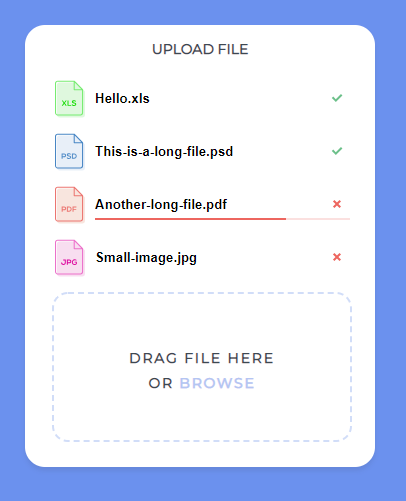
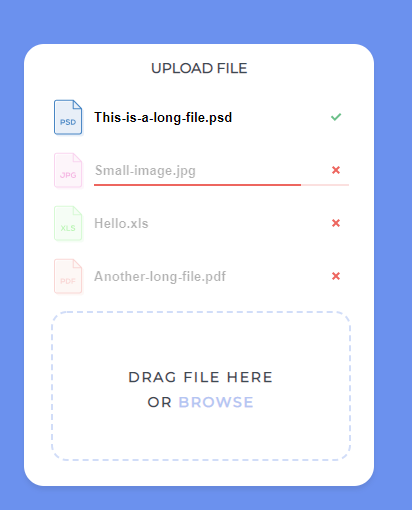
feat: add the transparency when the files are uploaded;

diff --git a/dist/js/main.js b/dist/js/main.js
@@ -1,1 +1,1 @@
-window.addEventListener("load",event=>{if(window.File&&window.FileReader&&window.FileList&&window.Blob){document.getElementById("file_input_id").addEventListener("change",handleFileSelect,!1);var dropZone=document.getElementById("dragAndDrop");dropZone.addEventListener("dragover",handleDragOver,!1),dropZone.addEventListener("drop",handleFileSelect,!1)}else alert("The File APIs are not fully supported in this browser.")}),handleFileSelect=(evt=>{var files;if(evt.stopPropagation(),evt.preventDefault(),evt.dataTransfer)files=evt.dataTransfer.files;else{if(!evt.target)return;files=evt.target.files}for(var output=[],allowedTypes=["ai","doc","jpg","pdf","png","psd","xls"],i=0;f=files[i];i++){var ext=f.name.split(".").pop();if(-1!==allowedTypes.indexOf(ext)){var div=document.createElement("div");div.className="input-container-"+i;var img=document.createElement("img");img.className="img-"+ext+" svg",img.src="/img/icon-file-"+ext+".svg";var status=document.createElement("img");status.id="status-"+i,status.className="status svg inprogress",status.src="/img/icon-close.svg";var li=document.createElement("li"),fileName=document.createElement("input");fileName.type="text",fileName.setAttribute("value",escape(f.name)),fileName.className="fileName",li.appendChild(fileName),div.appendChild(img),div.appendChild(li),div.appendChild(status),output.push(div.outerHTML)}else alert("These file extensions are not allowed in our File Uploader!")}document.getElementById("list").innerHTML="<ul>"+output.join("")+"</ul>",replaceSVG();var f,asyncArray=[];for(i=0;f=files[i];i++){asyncArray.push(function(i,f){return function(callback){var reader=new FileReader,li=document.querySelector(".input-container-"+i+" li"),status=document.getElementById("status-"+i),progressBar=document.createElement("div");progressBar.id="progress-bar-"+i,progressBar.className="progress_bar";var percent=document.createElement("div");percent.className="percent",progressBar.appendChild(percent),percent.style.width="0%",li.appendChild(progressBar),reader.onloadstart=function(e){progressBar.className="progress_bar loading"},reader.onload=function(e){percent.style.width="100%",percent.style.opacity="0",progressBar.className="progress_bar";var div=(status=document.getElementById(status.id)).parentElement;status.remove();var img=document.createElement("img");img.id=status.id,img.src="/img/icon-check.svg",img.className="status svg completed",div.appendChild(img),replaceSVG(),callback()},updateProgress=(evt=>{if(evt.lengthComputable){var percentLoaded=Math.round(evt.loaded/evt.total*100);percentLoaded<100&&(percent.style.width=percentLoaded+"%")}}),errorHandler=(evt=>{switch(evt.target.error.code){case evt.target.error.NOT_FOUND_ERR:alert("File Not Found!");break;case evt.target.error.NOT_READABLE_ERR:alert("File is not readable");break;case evt.target.error.ABORT_ERR:break;default:alert("An error occurred reading this file.")}callback()}),reader.onerror=errorHandler,reader.onprogress=updateProgress,reader.readAsBinaryString(f)}}(i,f))}async.waterfall(asyncArray)}),replaceSVG=(()=>{jQuery("img.svg").each(function(){var $img=jQuery(this),imgID=$img.attr("id"),imgClass=$img.attr("class"),imgURL=$img.attr("src");jQuery.get(imgURL,function(data){var $svg=jQuery(data).find("svg");void 0!==imgID&&($svg=$svg.attr("id",imgID)),void 0!==imgClass&&($svg=$svg.attr("class",imgClass+" replaced-svg")),$svg=$svg.removeAttr("xmlns:a"),$img.replaceWith($svg)},"xml")})}),handleDragOver=(evt=>{evt.stopPropagation(),evt.preventDefault(),evt.dataTransfer.dropEffect="copy"});
+window.addEventListener("load",event=>{if(window.File&&window.FileReader&&window.FileList&&window.Blob){document.getElementById("file_input_id").addEventListener("change",handleFileSelect,!1);var dropZone=document.getElementById("dragAndDrop");dropZone.addEventListener("dragover",handleDragOver,!1),dropZone.addEventListener("drop",handleFileSelect,!1)}else alert("The File APIs are not fully supported in this browser.")}),handleFileSelect=(evt=>{var files;if(evt.stopPropagation(),evt.preventDefault(),evt.dataTransfer)files=evt.dataTransfer.files;else{if(!evt.target)return;files=evt.target.files}for(var output=[],allowedTypes=["ai","doc","jpg","pdf","png","psd","xls"],i=0;f=files[i];i++){var ext=f.name.split(".").pop();if(-1!==allowedTypes.indexOf(ext)){var div=document.createElement("div");div.className="input-container-"+i;var img=document.createElement("img");img.className="img-"+ext+" svg",img.src="/img/icon-file-"+ext+".svg";var status=document.createElement("img");status.id="status-"+i,status.className="status svg inprogress",status.src="/img/icon-close.svg";var li=document.createElement("li"),fileName=document.createElement("input");fileName.type="text",fileName.setAttribute("value",escape(f.name)),fileName.className="fileName-"+i,li.appendChild(fileName),div.appendChild(img),div.appendChild(li),div.appendChild(status),output.push(div.outerHTML)}else alert("These file extensions are not allowed in our File Uploader!")}document.getElementById("list").innerHTML="<ul>"+output.join("")+"</ul>",replaceSVG();var f,asyncArray=[];for(i=0;f=files[i];i++){asyncArray.push(function(i,f){return function(callback){var reader=new FileReader,li=document.querySelector(".input-container-"+i+" li"),status=document.getElementById("status-"+i),progressBar=document.createElement("div");progressBar.id="progress-bar-"+i,progressBar.className="progress_bar";var percent=document.createElement("div");percent.className="percent",progressBar.appendChild(percent),percent.style.width="0%",li.appendChild(progressBar),reader.onloadstart=function(e){progressBar.className="progress_bar loading"},reader.onload=function(e){percent.style.width="100%",percent.style.opacity="0",progressBar.className="progress_bar";var div=(status=document.getElementById(status.id)).parentElement;div.querySelector('[class^="fileName-"]').style.opacity=1,div.querySelector('[class^="img-"]').style.opacity=1,status.remove();var img=document.createElement("img");img.id=status.id,img.src="/img/icon-check.svg",img.className="status svg completed",div.appendChild(img),replaceSVG(),callback()},updateProgress=(evt=>{if(evt.lengthComputable){var percentLoaded=Math.round(evt.loaded/evt.total*100);percentLoaded<100&&(percent.style.width=percentLoaded+"%")}}),errorHandler=(evt=>{switch(evt.target.error.code){case evt.target.error.NOT_FOUND_ERR:alert("File Not Found!");break;case evt.target.error.NOT_READABLE_ERR:alert("File is not readable");break;case evt.target.error.ABORT_ERR:break;default:alert("An error occurred reading this file.")}callback()}),reader.onerror=errorHandler,reader.onprogress=updateProgress,reader.readAsBinaryString(f)}}(i,f))}async.waterfall(asyncArray)}),replaceSVG=(()=>{jQuery("img.svg").each(function(){var $img=jQuery(this),imgID=$img.attr("id"),imgClass=$img.attr("class"),imgURL=$img.attr("src");jQuery.get(imgURL,function(data){var $svg=jQuery(data).find("svg");void 0!==imgID&&($svg=$svg.attr("id",imgID)),void 0!==imgClass&&($svg=$svg.attr("class",imgClass+" replaced-svg")),$svg=$svg.removeAttr("xmlns:a"),$img.replaceWith($svg)},"xml")})}),handleDragOver=(evt=>{evt.stopPropagation(),evt.preventDefault(),evt.dataTransfer.dropEffect="copy"});

diff --git a/dist/index.html b/dist/index.html
@@ -1,1 +1,1 @@
-<!DOCTYPE html><html lang="en"><head><meta charset="UTF-8"><meta name="theme-color" content="#6b91ee"><meta name="viewport" content="width=device-width,initial-scale=1"><meta http-equiv="X-UA-Compatible" content="ie=edge"><style>@import url("https://fonts.googleapis.com/css?family=Montserrat");body,html{height:100%}body{font-family:Montserrat;margin:0;background-color:#6b91ee}main{position:relative;width:100%;height:100%}main div#form>h2{font-size:14px;color:#3d4852;font-weight:700;text-transform:uppercase;line-height:1.857;text-align:center;z-index:4;position:relative;padding:12px}main div#form{width:350px;height:100%;position:relative;background-color:#fff;border-radius:20px;box-shadow:0 4px 6px 0 rgba(51,46,58,.1);z-index:3}main section#section{background-color:#6b91ee;position:absolute;left:50%;top:50%;width:420px;min-height:480px;margin-left:-210px;margin-top:-240px;z-index:2}div#dragAndDrop,div#list{position:relative}div#dragAndDrop{border:2px dashed rgba(104,142,232,.302);border-radius:16px;margin-top:30px;width:296px;height:146px;left:27px;bottom:25px;z-index:7}div#dragAndDrop h2{font-size:14px;color:#3d4852;text-transform:uppercase;line-height:1.857;letter-spacing:1.8px;text-align:center;padding:75px;top:-35px;position:absolute;z-index:8}div#dragAndDrop h2 label{color:#b4c5f2;cursor:pointer}div#dragAndDrop h2 label:hover{text-decoration:underline}div#dragAndDrop h2 #file_input_id{display:none}.svg{height:38px;width:30px;position:relative;top:-10px;left:-10px}[class^=input-container-]{display:flex;width:100%;margin-bottom:15px}ul{list-style:none}ul li{font-size:13px;width:82%}.img-doc,.img-psd{fill:#4886c4}.img-doc .st0,.img-psd .st0{fill:#e8eff8}.img-doc .st1,.img-psd .st1{fill:#518cc7}.img-pdf{fill:#ec7570}.img-pdf .st0{fill:#f8e5de}.img-pdf .st1{fill:#ee827e}.img-ai,.img-png{fill:#ebc867}.img-ai .st0,.img-png .st0{fill:#faf3dc}.img-ai .st1,.img-png .st1{fill:#efd386}.img-xls{fill:#76ec70}.img-xls .st0{fill:#dff8de}.img-xls .st1{fill:#17dd05}.img-jpg{fill:#ec70ca}.img-jpg .st0{fill:#f8def0}.img-jpg .st1{fill:#dd059d}.status{width:16px;height:16px;top:0;left:-20px}.inprogress .st0{fill:#ed665f}.completed .st0{fill:#6cc08a}.progress_bar{margin:5px 0;background-color:#6cc08a;font-size:14px;clear:both;transition:opacity 1s linear;height:2px;width:255px;opacity:0}.progress_bar.loading{background-color:#fbe0df;opacity:1}.progress_bar .percent{background-color:#ed665f;height:2px;width:0;opacity:1}.fileName{font-weight:700;border:none;width:90%}</style><title>Upload File</title></head><body><main><section id="section"><div id="form"><h2>Upload File</h2><div id="list"></div><div id="dragAndDrop"><h2>Drag file here or <label for="file_input_id">Browse</label> <input type="file" id="file_input_id" accept=".ai, .doc, .jpg, .pdf, .png, .psd, .xls" multiple="multiple"></h2></div></div></section></main><script async defer="defer" charset="utf-8" src="js/main.js"></script><script async defer="defer" charset="utf-8" src="js/jquery-3.3.1.min.js"></script><script async defer="defer" charset="utf-8" src="js/async.js"></script></body></html>
+<!DOCTYPE html><html lang="en"><head><meta charset="UTF-8"><meta name="theme-color" content="#6b91ee"><meta name="viewport" content="width=device-width,initial-scale=1"><meta http-equiv="X-UA-Compatible" content="ie=edge"><style>@import url("https://fonts.googleapis.com/css?family=Montserrat");body,html{height:100%}body{font-family:Montserrat;margin:0;background-color:#6b91ee}main{position:relative;width:100%;height:100%}main div#form>h2{font-size:14px;color:#3d4852;font-weight:700;text-transform:uppercase;line-height:1.857;text-align:center;z-index:4;position:relative;padding:12px}main div#form{width:350px;height:100%;position:relative;background-color:#fff;border-radius:20px;box-shadow:0 4px 6px 0 rgba(51,46,58,.1);z-index:3}main section#section{background-color:#6b91ee;position:absolute;left:50%;top:50%;width:420px;min-height:480px;margin-left:-210px;margin-top:-240px;z-index:2}div#dragAndDrop,div#list{position:relative}div#dragAndDrop{border:2px dashed rgba(104,142,232,.302);border-radius:16px;margin-top:30px;width:296px;height:146px;left:27px;bottom:25px;z-index:7}div#dragAndDrop h2{font-size:14px;color:#3d4852;text-transform:uppercase;line-height:1.857;letter-spacing:1.8px;text-align:center;padding:75px;top:-35px;position:absolute;z-index:8}div#dragAndDrop h2 label{color:#b4c5f2;cursor:pointer}div#dragAndDrop h2 label:hover{text-decoration:underline}div#dragAndDrop h2 #file_input_id{display:none}.svg{height:38px;width:30px;position:relative;top:-10px;left:-10px}[class^=fileName-],[class^=img-]{opacity:.3}[class^=input-container-]{display:flex;width:100%;margin-bottom:15px}ul{list-style:none}ul li{font-size:13px;width:82%}.img-doc,.img-psd{fill:#4886c4}.img-doc .st0,.img-psd .st0{fill:#e8eff8}.img-doc .st1,.img-psd .st1{fill:#518cc7}.img-pdf{fill:#ec7570}.img-pdf .st0{fill:#f8e5de}.img-pdf .st1{fill:#ee827e}.img-ai,.img-png{fill:#ebc867}.img-ai .st0,.img-png .st0{fill:#faf3dc}.img-ai .st1,.img-png .st1{fill:#efd386}.img-xls{fill:#76ec70}.img-xls .st0{fill:#dff8de}.img-xls .st1{fill:#17dd05}.img-jpg{fill:#ec70ca}.img-jpg .st0{fill:#f8def0}.img-jpg .st1{fill:#dd059d}.status{width:16px;height:16px;top:0;left:-20px}.inprogress .st0{fill:#ed665f}.completed .st0{fill:#6cc08a}.progress_bar{margin:5px 0;background-color:#6cc08a;font-size:14px;clear:both;transition:opacity 1s linear;height:2px;width:255px;opacity:0}.progress_bar.loading{background-color:#fbe0df;opacity:1}.progress_bar .percent{background-color:#ed665f;height:2px;width:0;opacity:1}[class^=fileName-]{font-weight:700;border:none;width:90%}</style><title>Upload File</title></head><body><main><section id="section"><div id="form"><h2>Upload File</h2><div id="list"></div><div id="dragAndDrop"><h2>Drag file here or <label for="file_input_id">Browse</label> <input type="file" id="file_input_id" accept=".ai, .doc, .jpg, .pdf, .png, .psd, .xls" multiple="multiple"></h2></div></div></section></main><script async defer="defer" charset="utf-8" src="js/main.js"></script><script async defer="defer" charset="utf-8" src="js/jquery-3.3.1.min.js"></script><script async defer="defer" charset="utf-8" src="js/async.js"></script></body></html>

diff --git a/dist/css/styles.css b/dist/css/styles.css
@@ -1,1 +1,1 @@
-@import url("https://fonts.googleapis.com/css?family=Montserrat");body,html{height:100%}body{font-family:Montserrat;margin:0;background-color:#6b91ee}main{position:relative;width:100%;height:100%}main div#form>h2{font-size:14px;color:#3d4852;font-weight:700;text-transform:uppercase;line-height:1.857;text-align:center;z-index:4;position:relative;padding:12px}main div#form{width:350px;height:100%;position:relative;background-color:#fff;border-radius:20px;box-shadow:0 4px 6px 0 rgba(51,46,58,.1);z-index:3}main section#section{background-color:#6b91ee;position:absolute;left:50%;top:50%;width:420px;min-height:480px;margin-left:-210px;margin-top:-240px;z-index:2}div#dragAndDrop,div#list{position:relative}div#dragAndDrop{border:2px dashed rgba(104,142,232,.302);border-radius:16px;margin-top:30px;width:296px;height:146px;left:27px;bottom:25px;z-index:7}div#dragAndDrop h2{font-size:14px;color:#3d4852;text-transform:uppercase;line-height:1.857;letter-spacing:1.8px;text-align:center;padding:75px;top:-35px;position:absolute;z-index:8}div#dragAndDrop h2 label{color:#b4c5f2;cursor:pointer}div#dragAndDrop h2 label:hover{text-decoration:underline}div#dragAndDrop h2 #file_input_id{display:none}.svg{height:38px;width:30px;position:relative;top:-10px;left:-10px}[class^=input-container-]{display:flex;width:100%;margin-bottom:15px}ul{list-style:none}ul li{font-size:13px;width:82%}.img-doc,.img-psd{fill:#4886c4}.img-doc .st0,.img-psd .st0{fill:#e8eff8}.img-doc .st1,.img-psd .st1{fill:#518cc7}.img-pdf{fill:#ec7570}.img-pdf .st0{fill:#f8e5de}.img-pdf .st1{fill:#ee827e}.img-ai,.img-png{fill:#ebc867}.img-ai .st0,.img-png .st0{fill:#faf3dc}.img-ai .st1,.img-png .st1{fill:#efd386}.img-xls{fill:#76ec70}.img-xls .st0{fill:#dff8de}.img-xls .st1{fill:#17dd05}.img-jpg{fill:#ec70ca}.img-jpg .st0{fill:#f8def0}.img-jpg .st1{fill:#dd059d}.status{width:16px;height:16px;top:0;left:-20px}.inprogress .st0{fill:#ed665f}.completed .st0{fill:#6cc08a}.progress_bar{margin:5px 0;background-color:#6cc08a;font-size:14px;clear:both;transition:opacity 1s linear;height:2px;width:255px;opacity:0}.progress_bar.loading{background-color:#fbe0df;opacity:1}.progress_bar .percent{background-color:#ed665f;height:2px;width:0;opacity:1}.fileName{font-weight:700;border:none;width:90%}
+@import url("https://fonts.googleapis.com/css?family=Montserrat");body,html{height:100%}body{font-family:Montserrat;margin:0;background-color:#6b91ee}main{position:relative;width:100%;height:100%}main div#form>h2{font-size:14px;color:#3d4852;font-weight:700;text-transform:uppercase;line-height:1.857;text-align:center;z-index:4;position:relative;padding:12px}main div#form{width:350px;height:100%;position:relative;background-color:#fff;border-radius:20px;box-shadow:0 4px 6px 0 rgba(51,46,58,.1);z-index:3}main section#section{background-color:#6b91ee;position:absolute;left:50%;top:50%;width:420px;min-height:480px;margin-left:-210px;margin-top:-240px;z-index:2}div#dragAndDrop,div#list{position:relative}div#dragAndDrop{border:2px dashed rgba(104,142,232,.302);border-radius:16px;margin-top:30px;width:296px;height:146px;left:27px;bottom:25px;z-index:7}div#dragAndDrop h2{font-size:14px;color:#3d4852;text-transform:uppercase;line-height:1.857;letter-spacing:1.8px;text-align:center;padding:75px;top:-35px;position:absolute;z-index:8}div#dragAndDrop h2 label{color:#b4c5f2;cursor:pointer}div#dragAndDrop h2 label:hover{text-decoration:underline}div#dragAndDrop h2 #file_input_id{display:none}.svg{height:38px;width:30px;position:relative;top:-10px;left:-10px}[class^=fileName-],[class^=img-]{opacity:.3}[class^=input-container-]{display:flex;width:100%;margin-bottom:15px}ul{list-style:none}ul li{font-size:13px;width:82%}.img-doc,.img-psd{fill:#4886c4}.img-doc .st0,.img-psd .st0{fill:#e8eff8}.img-doc .st1,.img-psd .st1{fill:#518cc7}.img-pdf{fill:#ec7570}.img-pdf .st0{fill:#f8e5de}.img-pdf .st1{fill:#ee827e}.img-ai,.img-png{fill:#ebc867}.img-ai .st0,.img-png .st0{fill:#faf3dc}.img-ai .st1,.img-png .st1{fill:#efd386}.img-xls{fill:#76ec70}.img-xls .st0{fill:#dff8de}.img-xls .st1{fill:#17dd05}.img-jpg{fill:#ec70ca}.img-jpg .st0{fill:#f8def0}.img-jpg .st1{fill:#dd059d}.status{width:16px;height:16px;top:0;left:-20px}.inprogress .st0{fill:#ed665f}.completed .st0{fill:#6cc08a}.progress_bar{margin:5px 0;background-color:#6cc08a;font-size:14px;clear:both;transition:opacity 1s linear;height:2px;width:255px;opacity:0}.progress_bar.loading{background-color:#fbe0df;opacity:1}.progress_bar .percent{background-color:#ed665f;height:2px;width:0;opacity:1}[class^=fileName-]{font-weight:700;border:none;width:90%}

diff --git a/js/main.js b/js/main.js
@@ -61,7 +61,7 @@ handleFileSelect = evt => {
     var fileName = document.createElement("input");
     fileName.type = "text";
     fileName.setAttribute("value", escape(f.name));
-    fileName.className = "fileName";
+    fileName.className = "fileName-" + i;
     li.appendChild(fileName);
     div.appendChild(img);
     div.appendChild(li);
@@ -93,7 +93,6 @@ handleFileSelect = evt => {
         li.appendChild(progressBar);
 
         reader.onloadstart = function(e) {
-          debugger;
           progressBar.className = "progress_bar loading";
         };
 
@@ -102,9 +101,10 @@ handleFileSelect = evt => {
           percent.style.width = "100%";
           percent.style.opacity = "0";
           progressBar.className = "progress_bar";
-
           status = document.getElementById(status.id);
           var div = status.parentElement;
+          div.querySelector('[class^="fileName-"]').style.opacity = 1;
+          div.querySelector('[class^="img-"]').style.opacity = 1;
           status.remove();
           var img = document.createElement("img");
           img.id = status.id;

diff --git a/gulpfile.js b/gulpfile.js
@@ -96,11 +96,6 @@ gulp.task("scripts-dist", function() {
 });
 
 gulp.task("sassy", function() {
-  gulp
-    .src("sass/**/*.scss")
-    .pipe(sass().on("error", sass.logError))
-    .pipe(gulp.dest("dist/css"));
-
   var plugins = [
     autoprefixer({
       browsers: ["last 1 version"]
@@ -109,7 +104,9 @@ gulp.task("sassy", function() {
   ];
 
   gulp
-    .src("dist/css/**/*.css")
+    .src("sass/**/*.scss")
+    .pipe(sass().on("error", sass.logError))
+    .pipe(gulp.dest("dist/css"))
     .pipe(postcss(plugins))
     .pipe(gulp.dest("dist/css"))
     .on("finish", function() {

diff --git a/sass/styles.scss b/sass/styles.scss
@@ -104,6 +104,10 @@ div#dragAndDrop {
   top: -10px;
   left: -10px;
 }
+[class^="img-"],
+[class^="fileName-"] {
+  opacity: 0.3;
+}
 [class^="input-container-"] {
   display: flex;
   width: 100%;
@@ -207,7 +211,7 @@ ul {
   opacity: 1;
 }
 /* File Name Styles */
-.fileName {
+[class^="fileName-"] {
   font-weight: bold;
   border: none;
   width: 90%;

diff --git a/README.md b/README.md
@@ -14,7 +14,6 @@ This is the final result, which took me about 8 hours to implement.
 
 Improvement decisions, which I took:
 
-- Avoid the transparency when files are uploading;
 - Hide the progress-bar when files are uploaded;
 - I had to come up with my own design for the rest of icons (which were not provided on the screenshot).
 - As it was not specified, I did not let to add extra-files for uploading. 
